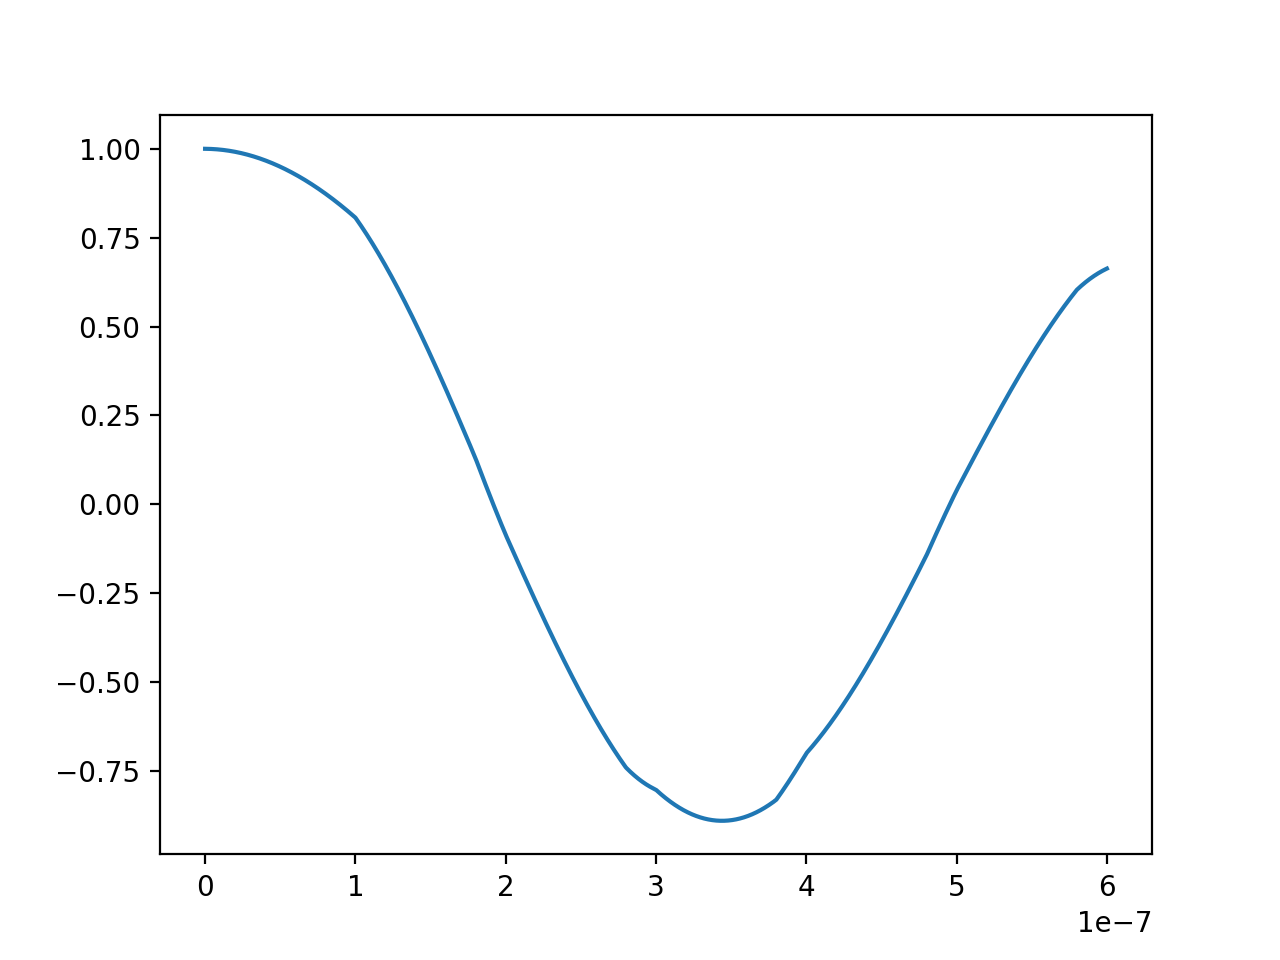
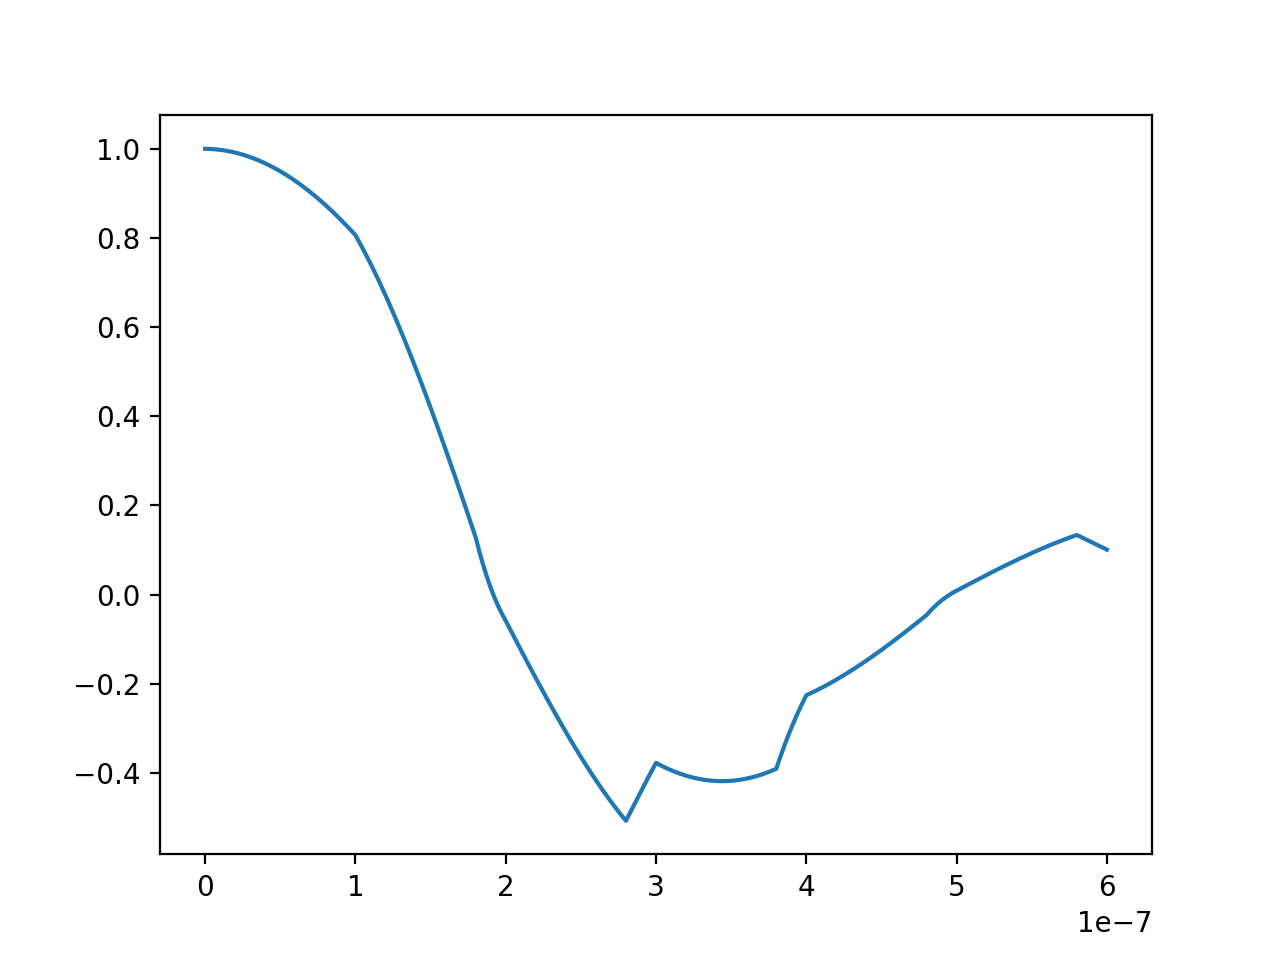
added Boltzmann law and E at wavelength function

diff --git a/Physics/FiberModeling/emissivity.py b/Physics/FiberModeling/emissivity.py
@@ -12,15 +12,28 @@ plt.rcParams['figure.dpi']=200 # setting the dpi of outputted graphs.
 Constants and conversion functions
 """
 c = 299792458
+h = 6.62607015*10**-34  # Planck Constant in Si
+k_B = 1.380649*10**-23  # Boltzmann Constant in Si
 
 # k = 2pi/lambda, lamda changes in a material if f stays constant
 # f = v/lambda
 # v = c/n
 
-def get_lambda_n(f, n, c):
+def get_lambda_n(f, n):
     v = c/n
     lambda_n = v/f
     return lambda_n
+
+def get_BoltzmannLaw(wavelength,T):
+    # This function returns the radiance of a black body at a given wavelength and temperature
+    B = (2*h*c**2/wavelength**5)*1/(np.exp(h*c/(wavelength*k_B*T))-1)
+    return B
+
+# Intensity loss:
+def get_I_absorption(k_n, lambda_vac, x_i):  # This is a different k (extinction coeff)
+    alpha = 4*np.pi*k_n/lambda_vac
+    I_absorption = np.exp(-alpha*x_i)
+    return I_absorption
 
 """
 Material Constants
@@ -35,12 +48,6 @@ TiN_1um_n = 1.7547
 TiN_1um_k = 3.4512
 #TiN_1um_k = 0.4512
 
-"""
-Input Conditions
-"""
-Amplitude = 1               # Constant amplitude of intitial signal. 
-lambda_vacuum = 1*10**-6    # Desired vacuum wavelength of light.
-nx = 1001                    # Resolution for each domain.
 
 # Define regions of material by defining only:
 # [0] = their widths <m> (to then call them in order to fill the space)
@@ -67,53 +74,56 @@ for i in range (layers):
 
 
 
-# Intensity loss:
-def get_I_absorption(k_n, lambda_vac, x_i):  # This is a different k (extinction coeff)
-    alpha = 4*np.pi*k_n/lambda_vac
-    I_absorption = np.exp(-alpha*x_i)
-    return I_absorption
+"""
+Input Conditions
+"""
 
-E_0 = Amplitude
-f = c/lambda_vacuum
+Amplitude = 1               # Constant amplitude of intitial signal. 
+lambda_vacuum = 1*10**-6    # Desired vacuum wavelength of light.
+resolution = 1001                    # Resolution for each domain.
 
-x_all = np.zeros(1)
-E_all = np.zeros(1)
-I_all = np.zeros(1)
-x_starts = [0]
-phi_starts = [0]
-d=0
-for domain in Domains:
-    lambda_n = get_lambda_n(f, domain[1],c)
-    x_min = 0
-    x_max = domain[0]
-    x = np.linspace(x_min,x_max, nx)
 
-    hx = (x_max - x_min)/(nx-1)
-    x_starts.append(x_max+x_starts[d]) # sets the start of the next values of x in the x_all list
-    
-    x_all = np.append(x_all, x+x_starts[d])
-    
-    E = np.zeros(nx)
-    I = np.zeros(nx)
-    for  i in range(nx):
-        E_vac = E_0*np.cos(2*np.pi/lambda_n*x[i]+2*np.pi*phi_starts[d])         # E(x) = E_0.cos(kx) = sqrt(I_0)
-        E[i] = E_vac*np.sqrt(get_I_absorption(domain[2], lambda_vacuum, x[i]))  # I(x) = I_0.e^(-alpha.x)
-        I[i] = E[i]**2
-    
-    
-    E_all = np.append(E_all, E)
-    I_all = np.append(I_all, I)
-    E_0 = E_0*np.sqrt(get_I_absorption(domain[2], lambda_vacuum, x[nx-1]))
-    phi_starts.append(phi_starts[d]+x_max/lambda_n)
-    
-    print(x_starts[d])
-    print(E)
-    d=d+1
+def E_at_lambda(Domains, Amplitude, lambda_vacuum, resolution):
+    nx = resolution
+    E_0 = Amplitude
+    f = c/lambda_vacuum
 
-E_all = np.delete(E_all, 0)
-I_all = np.delete(I_all, 0)
-x_all = np.delete(x_all, 0)
+    x_all = np.zeros(1)
+    E_all = np.zeros(1)
+    I_all = np.zeros(1)
+    x_starts = [0]
+    phi_starts = [0]
+    d=0
+    for domain in Domains:
+        lambda_n = get_lambda_n(f, domain[1],c)
+        x_min = 0
+        x_max = domain[0]
+        x = np.linspace(x_min,x_max, nx)
 
+        hx = (x_max - x_min)/(nx-1)
+        x_starts.append(x_max+x_starts[d]) # sets the start of the next values of x in the x_all list
+        
+        x_all = np.append(x_all, x+x_starts[d])
+        
+        E = np.zeros(nx)
+        for  i in range(nx):
+            E_vac = E_0*np.cos(2*np.pi/lambda_n*x[i]+2*np.pi*phi_starts[d])         # E(x) = E_0.cos(kx) = sqrt(I_0)
+            E[i] = E_vac*np.sqrt(get_I_absorption(domain[2], lambda_vacuum, x[i]))  # I(x) = I_0.e^(-alpha.x)
+        
+        
+        E_all = np.append(E_all, E)
+        E_0 = E_0*np.sqrt(get_I_absorption(domain[2], lambda_vacuum, x[nx-1]))
+        phi_starts.append(phi_starts[d]+x_max/lambda_n)
+        
+        d=d+1
+
+    E_all = np.delete(E_all, 0)
+    I_all = E_all**2
+    x_all = np.delete(x_all, 0)
+    return E_all, I_all, x_all
+
+
+E_all, I_all, x_all = E_at_lambda(Domains, Amplitude, lambda_vacuum, resolution)
 
 plt.plot(x_all,E_all)
 
@@ -124,3 +134,9 @@ plt.plot(x_all,I_all)
 
 plt.savefig('/workspaces/Projects/Physics/FiberModeling/outputI.png')
 
+"""
+Can easily be extended to sum intensity over a variety of wavelengths. 
+Might need to make everything after the domain inputs into a function.
+Then, I can iterate over a linspace of wavelengths and add each resulting E_all, then displaying over all wavelengths.
+There probably needs to also be a way to modify the E_all intensity at a particular wavelength according to a distribution of lightsource wavelength-dependent intensity.
+"""
